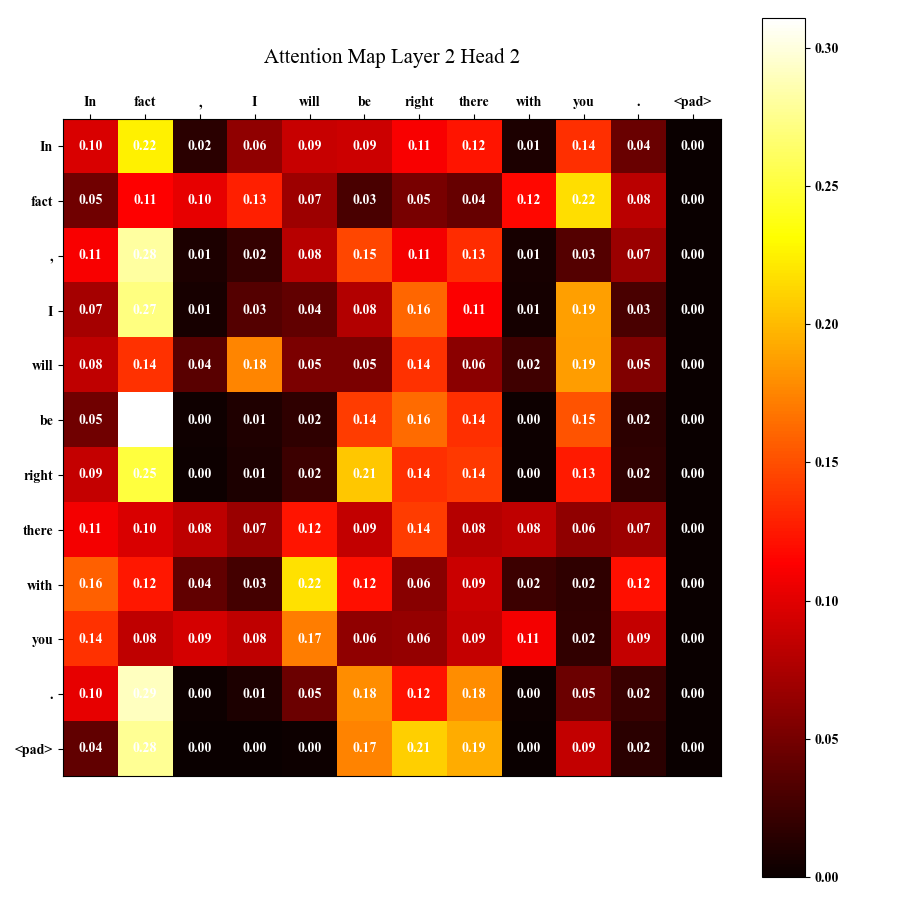
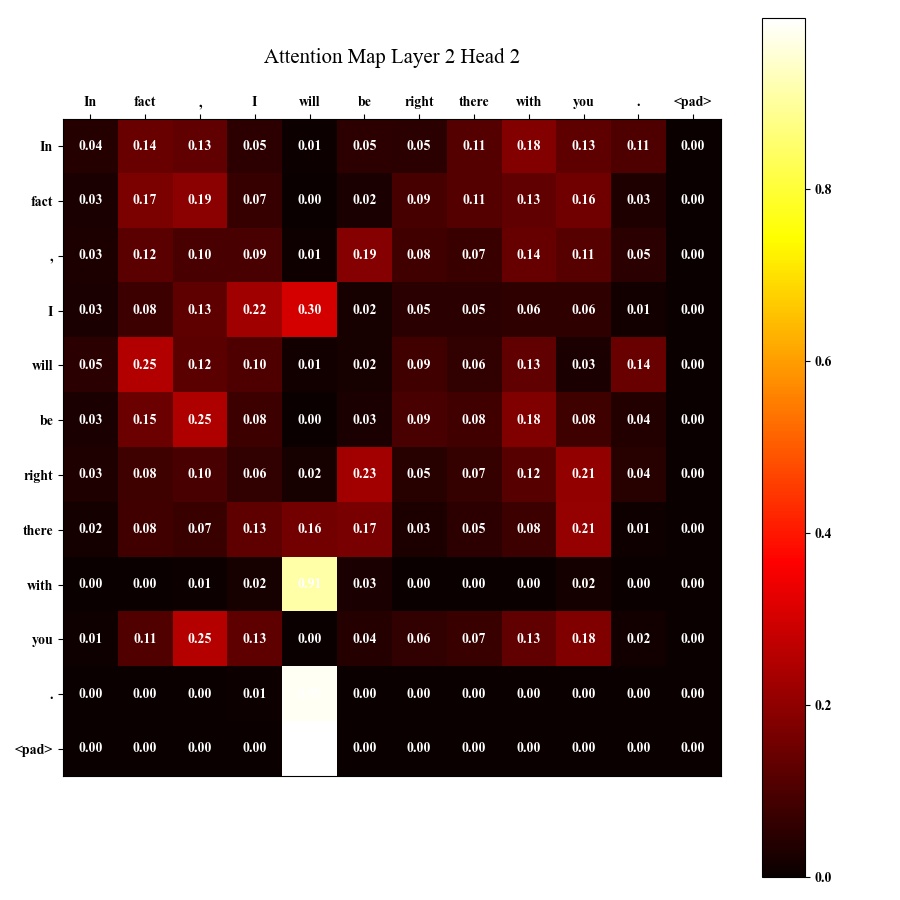
inst run and plots

diff --git a/PA2/main.py b/PA2/main.py
@@ -8,9 +8,10 @@ from transformer import ClassificationEncoder, Decoder, ClassificationEncoderAli
 from tqdm import tqdm
 import torch.nn as nn
 import torch.optim as optim
-from utilities import Utilities
+from utilities import Utilities, ensure_directory_exists
 import time
 import argparse
+import matplotlib.pyplot as plt
 
 
 seed = 42
@@ -19,7 +20,7 @@ device = torch.device("cuda" if torch.cuda.is_available() else "cpu")
 """ Hyperparameters to use for training to roughly match the numbers mentioned in the assignment description """
 batch_size = 16  # Number of independent sequences  we will process in parallel
 block_size = 32  # Maximum context length for predictions
-learning_rate = 1e-3  # Learning rate for the optimizer
+learning_rate = 1e-4  # Learning rate for the optimizer
 n_embd = 64  # Embedding dimension
 n_head = 2  # Number of attention heads
 n_layer = 4  # Number of transformer layers
@@ -34,6 +35,13 @@ eval_iters = 100  # Number of iterations to evaluate perplexity on the test set
 n_hidden = 50  # Hidden size for the classifier
 n_output = 3  # Output size for the classifier, we have 3 classes
 epochs_CLS = 15  # epochs for classifier training
+
+
+plt.rcParams.update({"lines.linewidth": 2})
+plt.rcParams.update({"lines.markersize": 8})
+plt.rcParams.update({"lines.markeredgewidth": 1})
+plt.rcParams["font.family"] = "Times New Roman"
+plt.rcParams["font.weight"] = "bold"
 
 
 def load_texts(directory):
@@ -109,7 +117,7 @@ def compute_perplexity_with_logits_output(decoderLMmodel, data_loader, criterion
     losses = []
     for X, Y in data_loader:
         X, Y = X.to(device), Y.to(device)
-        output = decoderLMmodel(X)
+        output, attention_matrices = decoderLMmodel(X)
         output = output.view(-1, output.size(-1))
         Y = Y.view(-1)
         loss = criterion(output, Y)
@@ -218,6 +226,7 @@ def main():
         criterion = nn.CrossEntropyLoss()
 
         classification_start_time = time.time()
+        accs = []
         for epoch in range(epochs_CLS):
             print("Epoch:", epoch + 1)
             for xb, yb in tqdm(train_CLS_loader, total=len(train_CLS_loader)):
@@ -229,9 +238,24 @@ def main():
                 optimizer.step()
             print(f"Epoch {epoch + 1} / {epochs_CLS}, Loss: {loss.item()}")
             accuracy = compute_classifier_accuracy(classifier=classification_encoder, data_loader=test_CLS_loader)
+            accs.append(accuracy)
             print(f"Epoch {epoch + 1} / {epochs_CLS}, Accuracy: {accuracy: .2f}%")
         classification_end_time = time.time()
         print(f"Encoder Classification Training and Evaluation Time: {classification_end_time - classification_start_time: .2f} seconds")
+
+        plt.figure(figsize=(9, 5))
+        plt.plot(range(1, epochs_CLS + 1), accs, marker="o", color="b", label="Accuracy")
+        plt.title(f"Accuracy over Epochs for {args.run.upper()}")
+        plt.xlabel("Epoch")
+        plt.ylabel("Accuracy (%)")
+        plt.xticks(range(1, epochs_CLS + 1))
+        plt.legend()
+        plt.grid()
+        for i, acc in enumerate(accs):
+            plt.text(i + 1, acc - 1.5, f"{acc: .2f}", ha="center", va="top")
+        ensure_directory_exists(directory_path="./acc_plots")
+        plt.savefig(f"./acc_plots/{args.run}_acc.png")
+        plt.show()
 
         utility = Utilities(tokenizer=tokenizer, model=classification_encoder)
         utility.sanity_check(sentence="In fact, I will be right there with you.", block_size=12)
@@ -251,32 +275,87 @@ def main():
         total_params = sum(p.numel() for p in decoder_only_model.parameters())
         print("The total parameters for decoder only model is:", total_params)
         optimizer = optim.Adam(decoder_only_model.parameters(), lr=learning_rate)
-        
+        criterion = nn.CrossEntropyLoss()
+
+        losses = []
+        h_bush_perplexities = []
+        obama_perplexities = []
+        w_bush_perplexities = []
         decoder_start_time = time.time()
         for i, (xb, yb) in tqdm(enumerate(train_LM_loader), total=len(train_LM_loader)):
             if i >= max_iters:
                 break
             xb, yb = xb.to(device), yb.to(device)
-            output = decoder_only_model(xb)
+            output, attention_matrices = decoder_only_model(xb)
             output = output.view(-1, output.size(-1))
             yb = yb.view(-1)
             loss = criterion(output, yb)
             optimizer.zero_grad()
             loss.backward()
+            losses.append(loss.item())
             optimizer.step()
             if (i + 1) % eval_interval == 0:
                 print(f"Step {i + 1} / {max_iters}, Loss: {loss.item()}")
                 print("Evaluating on hbush data ....")
                 perplexity_hbush = compute_perplexity_with_logits_output(decoder_only_model, test_LM_loader_hbush, criterion, eval_iters)
+                h_bush_perplexities.append(perplexity_hbush)
                 print(f"Step {i + 1} / {max_iters}, H-Bush Perplexity: {perplexity_hbush: .2f}")
                 print("Evaluating on obama data ....")
                 perplexity_obama = compute_perplexity_with_logits_output(decoder_only_model, test_LM_loader_obama, criterion, eval_iters)
+                obama_perplexities.append(perplexity_obama)
                 print(f"Step {i + 1} / {max_iters}, Obama Perplexity: {perplexity_obama: .2f}")
                 print("Evaluating on wbush data ....")
                 perplexity_wbush = compute_perplexity_with_logits_output(decoder_only_model, test_LM_loader_wbush, criterion, eval_iters)
+                w_bush_perplexities.append(perplexity_wbush)
                 print(f"Step {i + 1} / {max_iters}, W-Bush Perplexity: {perplexity_wbush: .2f}")
         decoder_end_time = time.time()
         print(f"Decoder Training and Evaluation Time: {decoder_end_time - decoder_start_time: .2f} seconds")
+
+        utility = Utilities(tokenizer=tokenizer, model=decoder_only_model)
+        utility.sanity_check(sentence="For inspiration, we need look no further than our own neighbors.", block_size=12, type="decoder")
+
+        plt.figure(figsize=(12, 6))
+        plt.plot(range(1, max_iters + 1), losses, marker="o", color="b", label="loss")
+        plt.title(f"Training Loss for {args.run.upper()}")
+        plt.xlabel("Iteration")
+        plt.ylabel("Loss")
+        plt.legend()
+        plt.grid()
+        ensure_directory_exists(directory_path="./acc_plots")
+        plt.savefig(f"./acc_plots/{args.run}_loss.png")
+        plt.show()
+
+        plt.figure(figsize=(10, 15))
+        plt.subplot(3, 1, 1)
+        plt.plot(range(eval_interval, max_iters + eval_interval, eval_interval), h_bush_perplexities, marker="o", color="green", label="H Bush Perplexity")
+        plt.xlabel("Iteration")
+        plt.ylabel("Perplexity")
+        plt.xticks(range(eval_interval, max_iters + eval_interval, eval_interval))
+        plt.legend()
+        for i, hbush in enumerate(h_bush_perplexities):
+            plt.text((i + 1) * eval_interval, hbush - 25, f"{hbush: .2f}", ha="center", va="top")
+
+        plt.subplot(3, 1, 2)
+        plt.plot(range(eval_interval, max_iters + eval_interval, eval_interval), obama_perplexities, marker="o", color="black", label="Obama Perplexity")
+        plt.xlabel("Iteration")
+        plt.ylabel("Perplexity")
+        plt.xticks(range(eval_interval, max_iters + eval_interval, eval_interval))
+        plt.legend()
+        for i, obama in enumerate(obama_perplexities):
+            plt.text((i + 1) * eval_interval, obama - 25, f"{obama: .2f}", ha="center", va="top")
+
+        plt.subplot(3, 1, 3)
+        plt.plot(range(eval_interval, max_iters + eval_interval, eval_interval), w_bush_perplexities, marker="o", color="red", label="W Bush Perplexity")
+        plt.xlabel("Iteration")
+        plt.ylabel("Perplexity")
+        plt.xticks(range(eval_interval, max_iters + eval_interval, eval_interval))
+        plt.legend()
+        for i, wbush in enumerate(w_bush_perplexities):
+            plt.text((i + 1) * eval_interval, wbush - 25, f"{wbush: .2f}", ha="center", va="top")
+
+        plt.tight_layout()
+        plt.savefig(f"./acc_plots/{args.run}_all_eval.png")
+        plt.show()
 
 
 if __name__ == "__main__":

diff --git a/PA2/utilities.py b/PA2/utilities.py
@@ -17,7 +17,7 @@ class Utilities:
         self.tokenizer = tokenizer
         self.model = model
 
-    def sanity_check(self, sentence, block_size):
+    def sanity_check(self, sentence, block_size, type="encoder"):
         plt.rcParams.update({"lines.linewidth": 2})
         plt.rcParams.update({"lines.markersize": 8})
         plt.rcParams.update({"lines.markeredgewidth": 1})
@@ -76,7 +76,10 @@ class Utilities:
                 plt.tight_layout()
                 
                 # Save the plot
-                plt.savefig(f"./attention_maps/attention_map_layer_{j + 1}_head_{head_idx + 1}.png")
+                if type =="encoder":
+                    plt.savefig(f"./attention_maps/attention_map_layer_{j + 1}_head_{head_idx + 1}.png")
+                elif type == "decoder":
+                    plt.savefig(f"./attention_maps/decoder_attention_map_layer_{j + 1}_head_{head_idx + 1}.png")
                 
                 # Show the plot
                 plt.show()

diff --git a/PA2/transformer.py b/PA2/transformer.py
@@ -1,6 +1,5 @@
 import torch
 import torch.nn as nn
-import math
 
 
 class PositionalEncoding(nn.Module):
@@ -185,10 +184,12 @@ class Decoder(nn.Module):
         mask = self.make_mask(x)
         pos_embed = self.position_embedding().unsqueeze(0).expand(N, -1, -1)[:, :seq_length, :]
         out = self.dropout(self.word_embedding(x) + pos_embed)
+        attention_matrices = []
         for layer in self.layers:
             out, attention = layer(out, out, out, mask)
+            attention_matrices.append(attention.detach().cpu())
         out = self.fc_out(out)
-        return out
+        return out, attention_matrices
 
 
 class Encoder(nn.Module):
